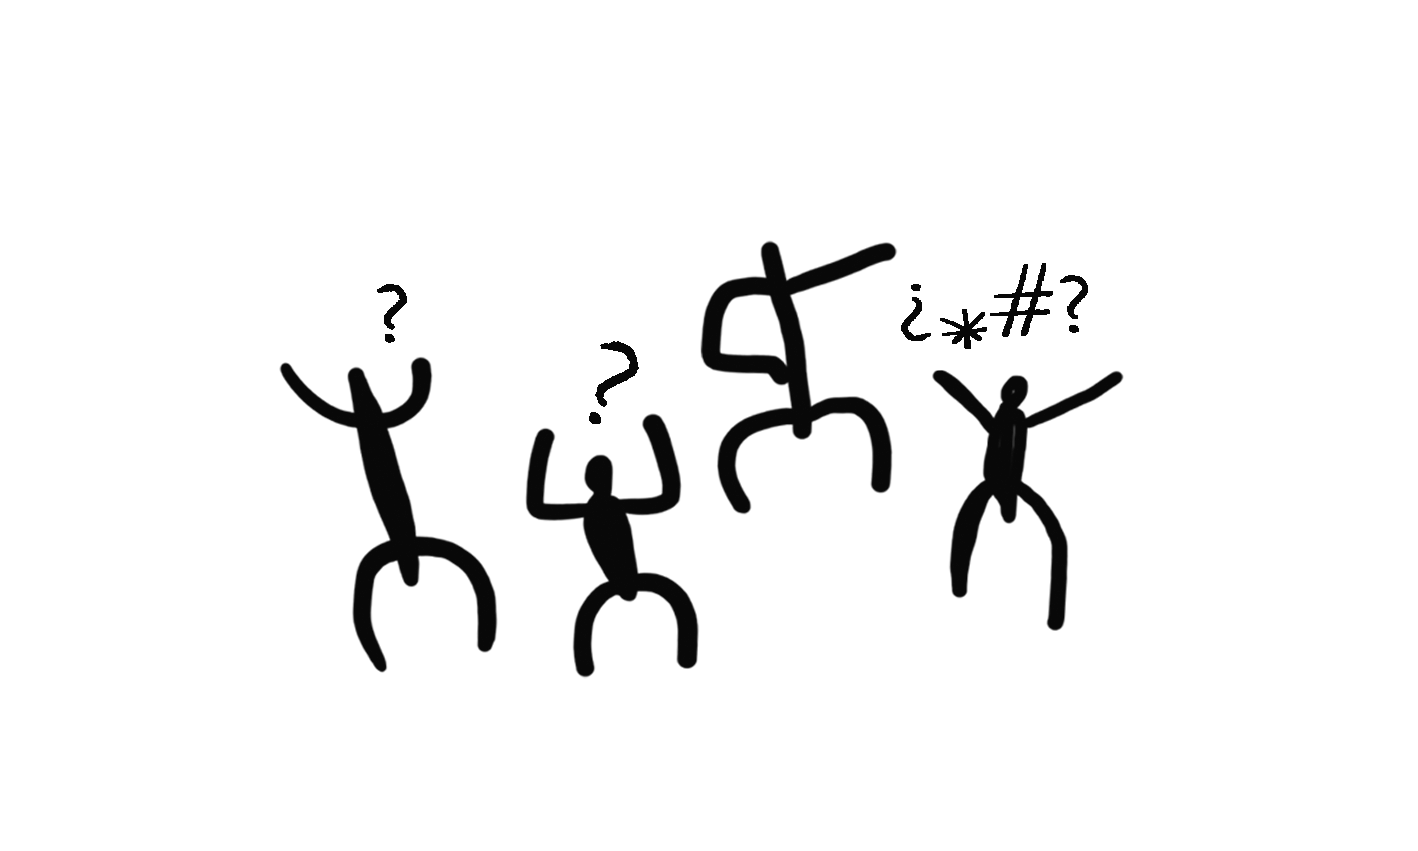
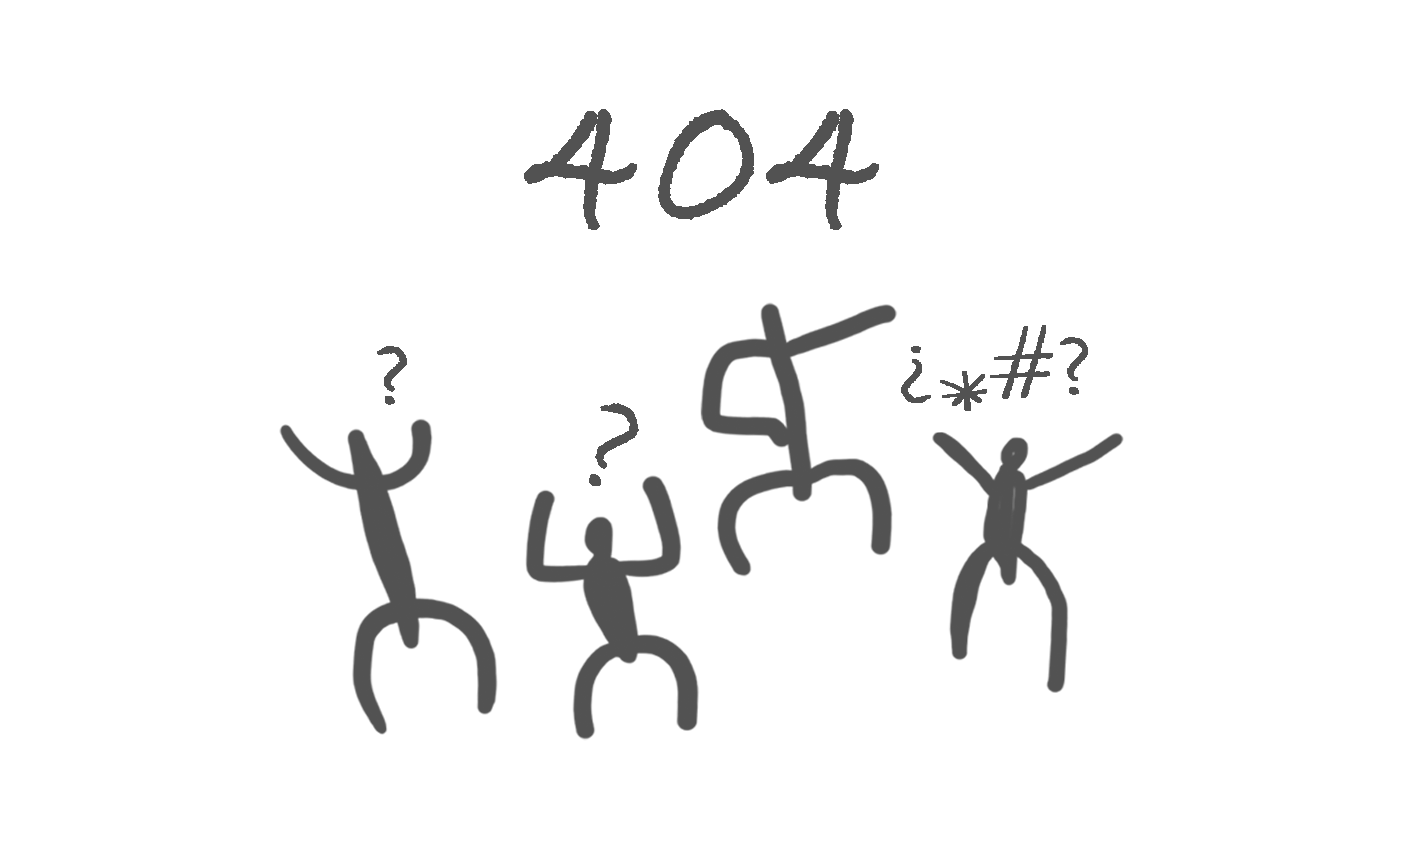
cambio de imagen y estilo en componente not-found

Changed region(s): [[0.1862, 0.275, 0.8068, 0.886], [0.3724, 0.1222, 0.6206, 0.275]]

diff --git a/src/config/config.ts b/src/config/config.ts
@@ -1,2 +1,2 @@
-// export const URL_BACK = 'http://192.168.1.35:8449'
+// export const URL_BACK = 'http://192.168.1.39:8449'
 export const URL_BACK = 'http://localhost:8449'

diff --git a/src/app/not-found/not-found.component.css b/src/app/not-found/not-found.component.css
@@ -17,6 +17,5 @@
 }
 
 .img_not_found{
-    opacity: 70%;
     width: 100%;
 }
